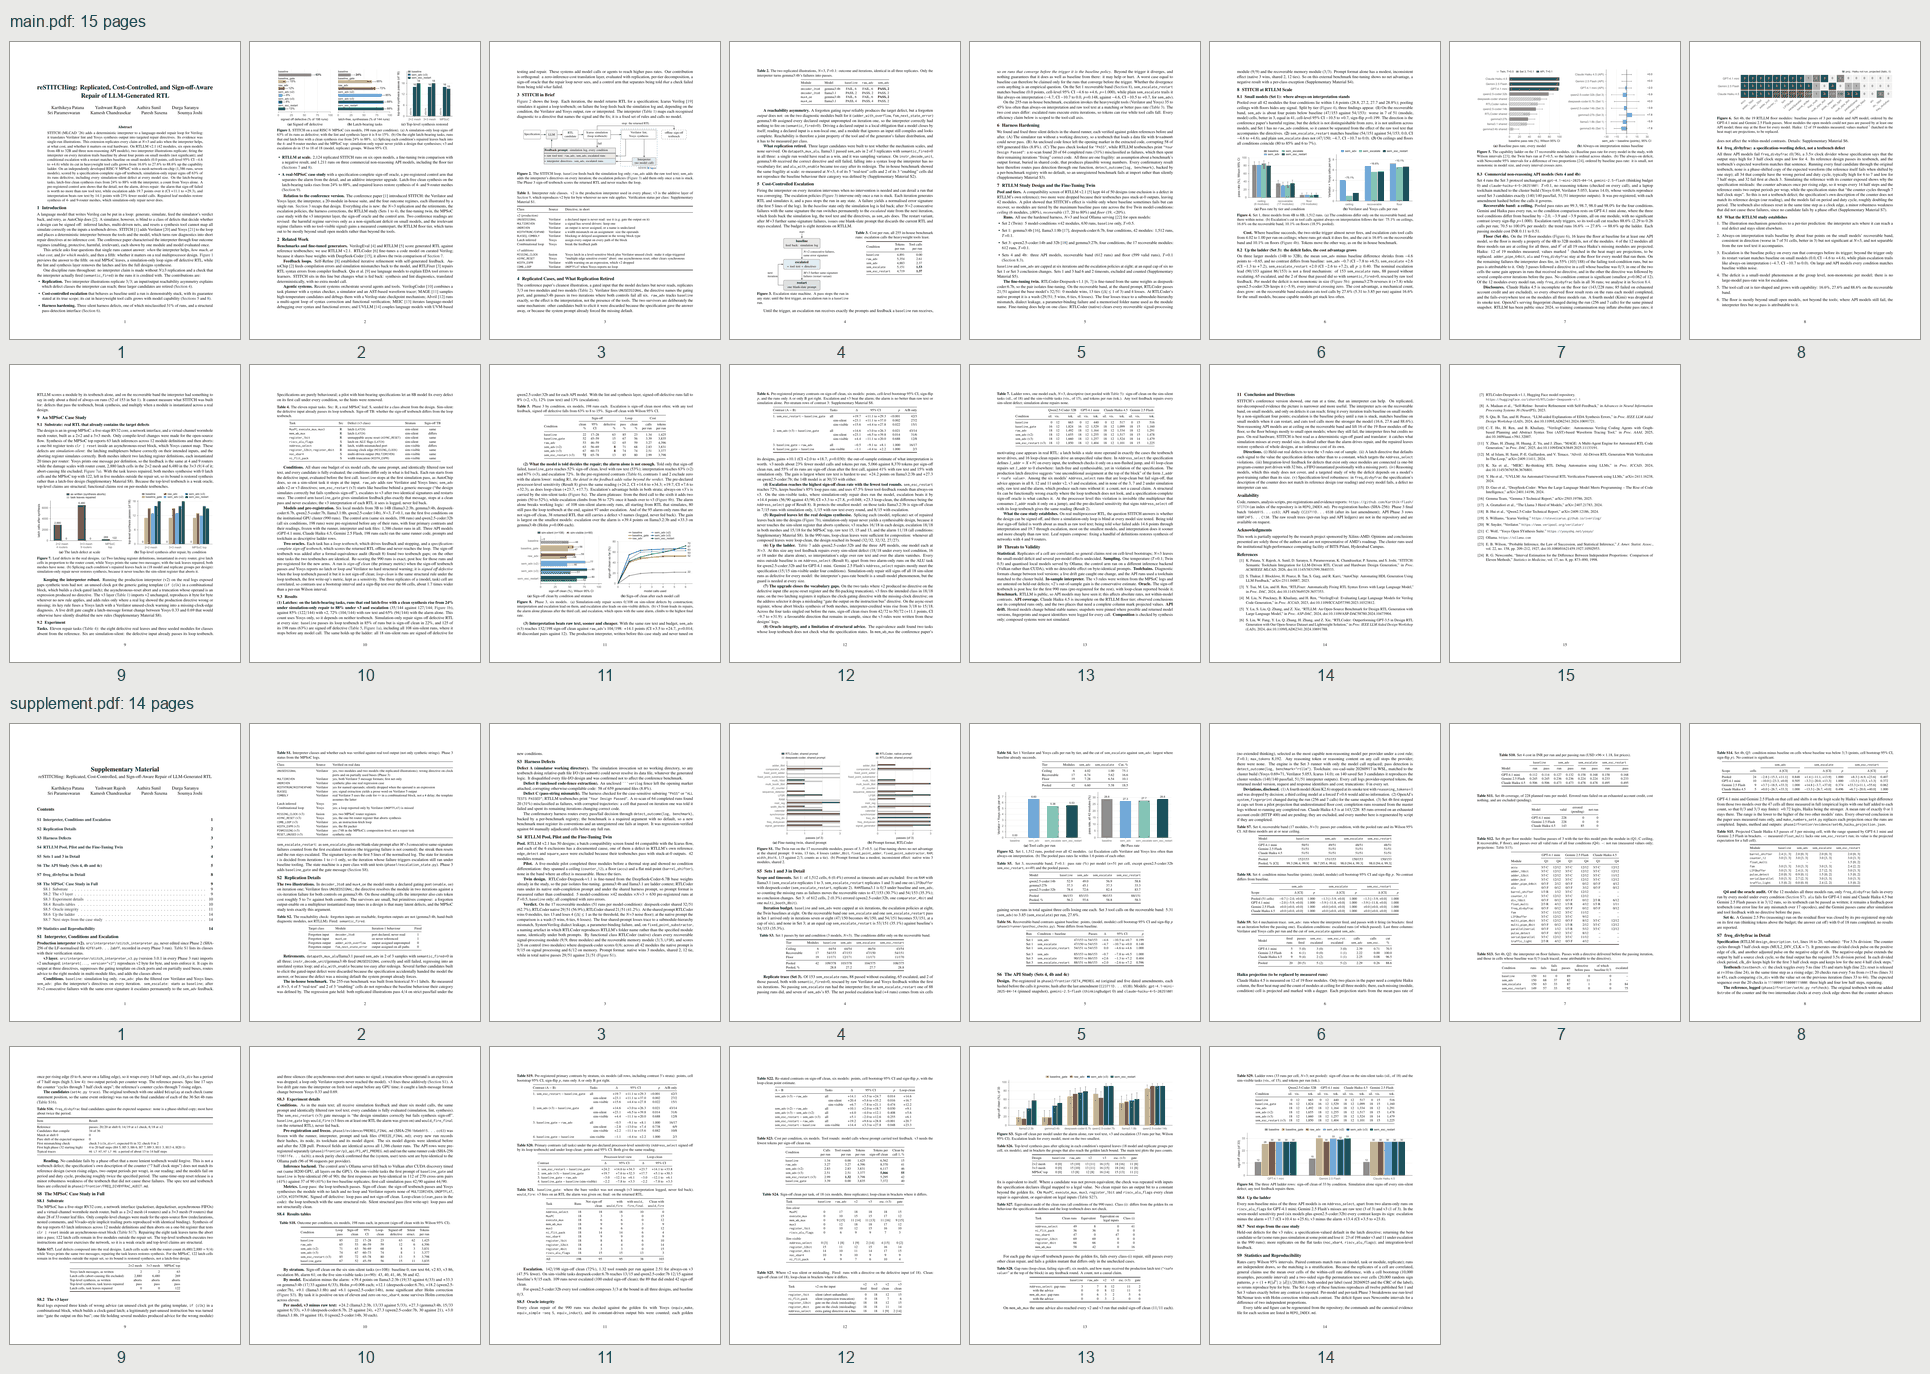
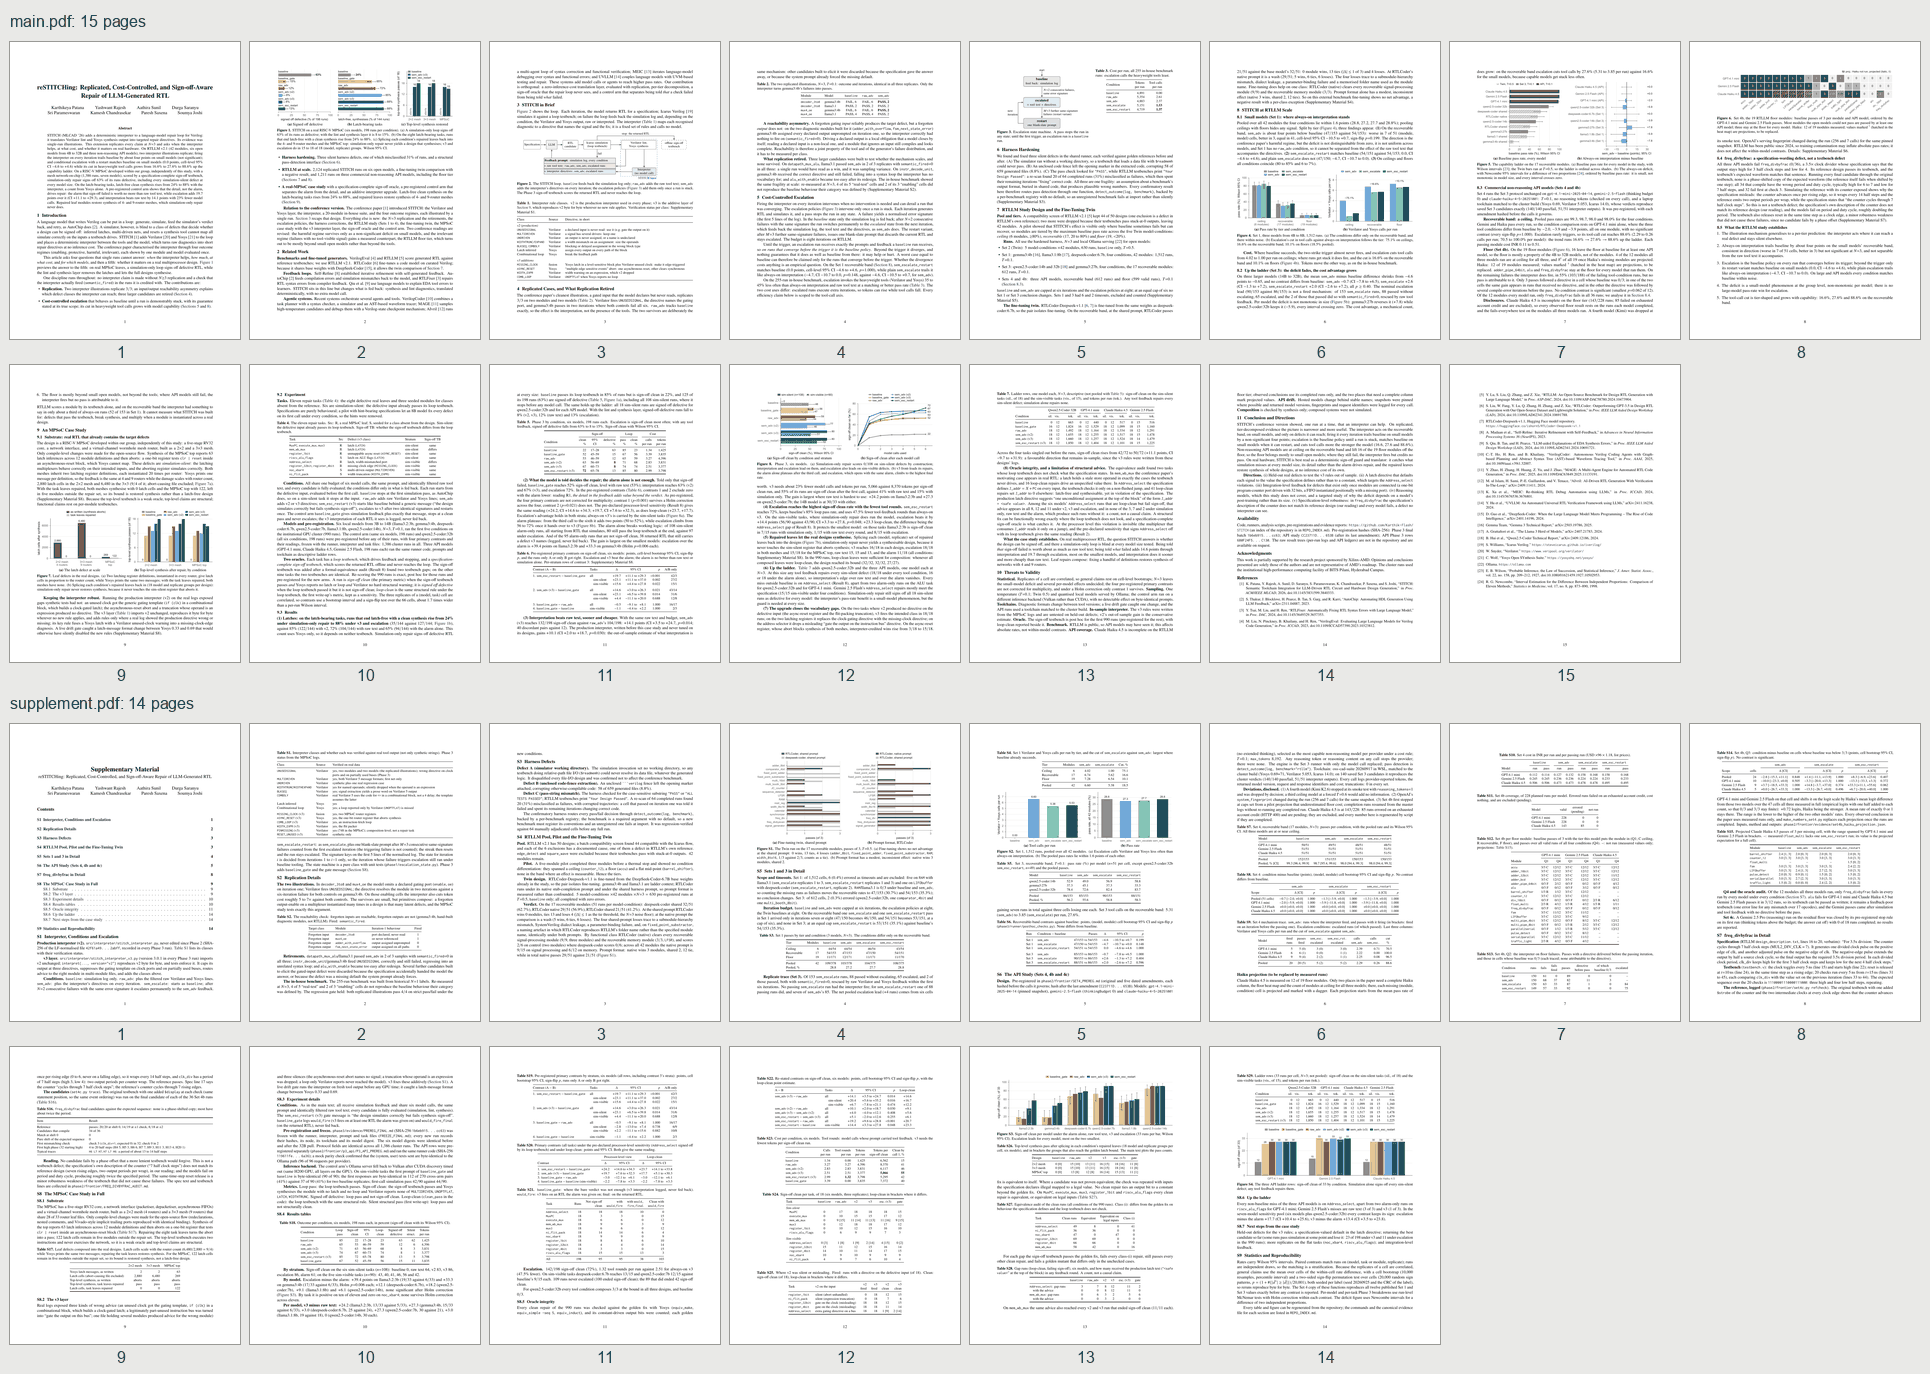
Paper v10: clarify design provenance and state primary-contrast multiplicity
Describe the MPSoC the same way in the abstract and in Section 9.1: "a
RISC-V MPSoC developed within our group, independently of this study".

Result (2) now says that, as pre-registered, the four primary contrasts
are not corrected for multiplicity: contrast 1 (p<0.001) survives a Holm
correction across the four, and contrast 2 (p=0.021) does not.
Threats to Validity carries the same clause. No number changes.

make_numbers_set4.py gains --no-projection. It keeps Haiku's measured
runs, shows the missing cells as not run and removes every projection,
so the paper can compile under \finaltrue even if Haiku's Set 4b is
never completed. That path was tested: both files compile with 0 errors
and 0 warnings, and a re-run without the flag restores the projected
version byte for byte. PENDING.md and REPO_INDEX.md record the
procedure.

Clean-room rebuild: main 15 pages, supplement 14, 0 errors, 0 warnings.
The Overleaf zip and the QA contact sheet are refreshed, and
V10_CHANGES.md is updated.

Changed region(s): [[0.0, 0.0306, 0.9948, 0.2445], [0.0, 0.2751, 0.8705, 0.4585], [0.6528, 0.8253, 0.715, 0.8559]]

diff --git a/phase2/frontier/make_numbers_set4.py b/phase2/frontier/make_numbers_set4.py
@@ -1,6 +1,7 @@
 """Every Set 4 / Set 4b number the paper quotes, as LaTeX macros, from the analysis JSON files, plus the Haiku
 projection (paper v10, Part E) and the Set 4b floor heat map.
-  python -B phase2/frontier/make_numbers_set4.py
+  python -B phase2/frontier/make_numbers_set4.py                  (projects Haiku's missing cells, marked)
+  python -B phase2/frontier/make_numbers_set4.py --no-projection  (measured runs only; missing cells "not run")
 Writes (rewriting only the marked blocks of the two .tex files):
   paper/overleaf/main.tex        between "% BEGIN GENERATED NUMBERS" and "% END GENERATED NUMBERS"
   paper/overleaf/supplement.tex  the same NUMBERS block, and the S6 tables between "% BEGIN GENERATED TABLES" and
@@ -171,8 +172,9 @@ def macros(a, b, par, pj):
     cells = pj["projected_cells"]
     base_proj = {x["module"]: x["projected_rate"] for x in cells if x["condition"] == "baseline"}
     measured = sum(1 for mod in q1 if q1[mod][HAI]["n"])
-    haiku_tier = {mod: q1[mod][HAI]["tier"] if q1[mod][HAI]["n"] else tier(base_proj[mod]) for mod in q1}
-    ceil_full = sum(1 for mod in q1 if q1[mod][GPT]["tier"] == q1[mod][GEM]["tier"] == haiku_tier[mod] == "ceiling")
+    haiku_tier = {mod: q1[mod][HAI]["tier"] if q1[mod][HAI]["n"] else tier(base_proj[mod]) for mod in q1} \
+        if base_proj else {}
+    ceil_full = sum(1 for mod in q1 if q1[mod][GPT]["tier"] == q1[mod][GEM]["tier"] == haiku_tier.get(mod) == "ceiling")
     m["SetFourBHaikuModules"] = (measured, "Q1: modules with Haiku baseline runs")
     m["SetFourBProjCells"] = (len(cells), "set4b_haiku_projection.json projected_cells")
     m["SetFourBProjOffset"] = (f"{pj['offset_logit']:+.2f}".replace("-", "$-$"), "set4b_haiku_projection.json offset_logit")
@@ -181,7 +183,9 @@ def macros(a, b, par, pj):
                                       r"are projected") if base_proj else "",
                                      "Q1 ceiling for all three over all modules, Haiku projected where not run")
     note = (rf"Haiku: {measured} of {len(q1)} modules measured; values marked~\textsuperscript{{\dag}} (hatched in "
-            r"the heat map) are projections, to be replaced.\projcheck{}") if cells else ""
+            r"the heat map) are projections, to be replaced.\projcheck{}") if cells else (
+        rf"Haiku: {measured} of {len(q1)} modules measured; heat-map cells marked -- were not run."
+        if measured < len(q1) else "")
     m["SetFourBProjNote"] = (note, "empty once no projected cell remains")
     return m
 
@@ -302,10 +306,14 @@ def tables(a, b, pj):
 
     # Haiku projection (Part E): method and the projected cells
     cells = pj["projected_cells"]
-    out.append(r"\subsection*{Haiku projection (to be replaced by measured runs)}")
+    measured = sum(1 for x in q1 if q1[x][HAI]["n"])
     if not cells:
-        out += [r"Claude Haiku~4.5 is complete on the floor tier; no value in the paper is projected.", ""]
+        out.append(r"\subsection*{Haiku coverage}")
+        out += [r"Claude Haiku~4.5 is complete on the floor tier; no value in the paper is projected." if measured == len(q1)
+                else rf"Claude Haiku~4.5 is measured on {measured} of {len(q1)} floor modules; its missing cells are "
+                     r"reported as not run, and no value in the paper is projected.", ""]
         return "\n".join(out) + "\n"
+    out.append(r"\subsection*{Haiku projection (to be replaced by measured runs)}")
     out += [rf"Claude Haiku~4.5 is measured on {sum(1 for x in q1 if q1[x][HAI]['n'])} of {len(q1)} floor modules. "
             r"Only two places in the paper need a complete Haiku column, the floor heat map and the count of modules "
             r"at ceiling for all three models; there, each missing (module, condition) cell is projected and marked "
@@ -346,8 +354,8 @@ def heatmap(b, pj):
     q1 = b["Q1"]
     proj = {x["module"]: x for x in pj["projected_cells"] if x["condition"] == "baseline"}
     order = sorted(q1, key=lambda mod: (-(q1[mod][GPT]["k"] + q1[mod][GEM]["k"]), mod.lower()))
-    val = np.array([[q1[mod][mo]["k"] if q1[mod][mo]["n"] else proj[mod]["projected_passes_of_3"] for mod in order]
-                    for mo in MODELS], dtype=float)
+    val = np.array([[q1[mod][mo]["k"] if q1[mod][mo]["n"] else proj.get(mod, {}).get("projected_passes_of_3", np.nan)
+                     for mod in order] for mo in MODELS], dtype=float)
     cmap = LinearSegmentedColormap.from_list("grey", ["#f4f3f0", "#3f3e3b"])
     fig, ax = fs.figure(fs.FULL, 1.7)
     ax.imshow(val, cmap=cmap, vmin=0, vmax=3, aspect="auto")
@@ -355,7 +363,9 @@ def heatmap(b, pj):
         for j, mod in enumerate(order):
             v, projected = val[i, j], not q1[mod][mo]["n"]
             ink = "#ffffff" if v >= 1.9 else fs.INK
-            if projected:                      # hatch the cell, keep the value legible on a solid patch
+            if np.isnan(v):                    # projections disabled: a cell Haiku did not run stays empty
+                ax.text(j, i, "–", ha="center", va="center", fontsize=7.5, color=fs.MUTED)
+            elif projected:                    # hatch the cell, keep the value legible on a solid patch
                 ax.add_patch(Rectangle((j - 0.5, i - 0.5), 1, 1, fill=False, hatch="////",
                                        edgecolor=(1, 1, 1, 0.55), linewidth=0))
                 ax.text(j, i, f"{v:.1f}†", ha="center", va="center", fontsize=7, style="italic", color=ink,
@@ -393,6 +403,8 @@ def main():
     b = json.load(open(os.path.join(SET4, "analysis_4b", "set4b_analysis.json"), encoding="utf-8"))
     par = json.load(open(os.path.join(SET4, "parity_check_osscad.json"), encoding="utf-8"))["summary"]
     pj = project(sorted(b["Q1"], key=str.lower))
+    if "--no-projection" in sys.argv:          # keep measured runs only; missing Haiku cells read "not run"
+        pj = dict(pj, projected_cells=[])
     m = macros(a, b, par, pj)
     block = ["% GENERATED by phase2/frontier/make_numbers_set4.py -- do not edit by hand."]
     fmt = lambda v: f"{v:,}".replace(",", "{,}") if isinstance(v, int) else v   # noqa: E731  1{,}211 in math mode

diff --git a/paper/overleaf/main.tex b/paper/overleaf/main.tex
@@ -163,8 +163,9 @@ interpreter on every iteration trails baseline by about four points on small
 models (not significant); and conditional escalation with a restart matches
 baseline on small models ($0.0$ points, cell-level $95\%$ CI $-4.6$ to $+4.6$)
 while its cut in heavyweight tool calls grows from $16.6\%$ to $27.6\%$ to
-$88.6\%$ up the capability ladder. On an independently developed RISC-V MPSoC
-with a mesh network-on-chip ($1{,}386$ runs, seven models), scored by a
+$88.6\%$ up the capability ladder. On a RISC-V MPSoC developed within our
+group, independently of this study, with a mesh network-on-chip ($1{,}386$
+runs, seven models), scored by a
 specification-complete sign-off testbench, simulation-only repair signs off
 $63\%$ of its runs defective, including every simulation-silent defect at every
 model size. On the latch-bearing tasks, latch-free clean synthesis rises from
@@ -784,7 +785,8 @@ across a real design.
 \subsection{Substrate: real RTL that already contains the target defects}
 \label{sec:mpsoc-substrate}
 
-The design is an in-group MPSoC: a five-stage RV32 core, a network interface,
+The design is a RISC-V MPSoC developed within our group, independently of this
+study: a five-stage RV32 core, a network interface,
 and a virtual-channel wormhole mesh router, built as a $2{\times}2$ and a
 $3{\times}3$ mesh. Only compile-level changes were made for the open-source
 flow. Synthesis of the MPSoC top reports $63$ latch inferences across $12$
@@ -957,7 +959,9 @@ sign-off clean, level with raw text ($53\%$); interpretation reaches $63\%$ (v2)
 and $67\%$ (v3), and escalation $72\%$. In the pre-registered contrasts
 (\cref{tab:primary}), contrasts~1 and~2 exclude zero with the alarm lower:
 reading R1, \emph{the detail in the feedback adds value beyond the verdict}.
-The pre-declared processor-level sensitivity (Result~8) gives the same reading
+As pre-registered, the four primary contrasts are not corrected for
+multiplicity; contrast~1 ($p{<}0.001$) survives a Holm correction across the
+four, contrast~2 ($p{=}0.021$) does not. The pre-declared processor-level sensitivity (Result~8) gives the same reading
 ($+24.2$, CI $+14.6$ to $+34.3$; $+19.7$, CI $+7.6$ to $+32.3$), as does
 loop-clean ($+23.7$, $+17.7$). Escalation's advantage holds in both strata;
 always-on v3's is carried by the sim-silent tasks (\cref{fig:p3-a}). The alarm
@@ -1136,7 +1140,9 @@ definitions restores synthesis of networks with $4$ and $9$ routers.
 
 \textbf{Statistical.} Replicates of a cell are correlated, so general claims
 rest on cell-level bootstraps; $N{=}3$ leaves the small-model deficit and
-several per-model effects undecided. \textbf{Sampling.} One temperature
+several per-model effects undecided; the four pre-registered primary contrasts
+are not corrected for multiplicity, and under a Holm correction only
+contrast~1 survives. \textbf{Sampling.} One temperature
 ($T{=}0.1$; Twin $0.5$) and quantised local models served by Ollama; the
 control arm ran on a different inference backend (Vulkan rather than CUDA),
 with no detectable effect on byte-identical prompts. \textbf{Toolchains.}

diff --git a/paper/V10_CHANGES.md b/paper/V10_CHANGES.md
@@ -249,3 +249,26 @@ A token-level comparison of every number in the v10 bodies against v9 and its ge
       them would break the freeze record;
     - frozen test fixtures and test strings;
     - `phase1/demo_error_signature.py`, whose real log excerpts are demo input.
+
+## 11. Edits after the checkpoint (2026-10-13)
+
+1. **Design provenance, one wording.** The abstract ("an independently developed RISC-V MPSoC") and Section 9.1
+   ("an in-group MPSoC") now both read "a RISC-V MPSoC developed within our group, independently of this study".
+   The supplement used neither phrase.
+   - The abstract grows from 249 to 256 words.
+2. **Multiplicity of the primary contrasts.** Result (2) now states: "As pre-registered, the four primary contrasts
+   are not corrected for multiplicity; contrast 1 (p<0.001) survives a Holm correction across the four, contrast 2
+   (p=0.021) does not."
+   - Holm across the four p-values (<0.001, 0.021, 1.000, 1.000) multiplies the second smallest by 3: 0.063, above
+     0.05.
+   - Threats to Validity (Statistical) adds the matching clause.
+   - No number changes.
+3. **Projections can be switched off.** `make_numbers_set4.py --no-projection` keeps the measured runs only. Haiku's
+   missing cells read "not run" (a "–" in the heat map), and the Q1 clause and the projection table disappear.
+   - Tested: both files compile under `\finaltrue` with 0 errors and 0 warnings.
+   - Re-running without the flag restores the projected version byte for byte.
+   - `phase2/frontier/PENDING.md` records the procedure.
+4. **Rebuild.** Clean room, then the zip extracted and built again:
+   - `main.tex` 15 pages, `supplement.tex` 14 pages;
+   - 0 errors, 0 warnings, 0 undefined references, 0 overfull or underfull boxes;
+   - the zip and `qa_contact_sheet.png` refreshed.

diff --git a/phase2/frontier/PENDING.md b/phase2/frontier/PENDING.md
@@ -95,3 +95,17 @@ If Haiku's 85 runs are ever completed, finish the paper:
 2. Set `\finaltrue` in `paper/overleaf/main.tex`, rebuild both files and re-zip the folder.
 
 The text needs no edit.
+
+**If Haiku's Set 4b cannot be completed**, keep its 143 measured runs and remove only the projections:
+1. Run `python -B phase2/frontier/make_numbers_set4.py --no-projection`. This keeps every measured value, and
+   Haiku's missing cells then read "not run":
+   - in the heat map, as a "–";
+   - in the Q1 count, which is limited to the 12 modules all three models ran;
+   - in the supplement's coverage note.
+
+   The daggers, the projected count and the projection table disappear.
+2. Set `\finaltrue` in both `paper/overleaf/main.tex` and `supplement.tex`. Rebuild both with `latexmk -pdf` and
+   confirm they compile with no "Projected Haiku values remain" error. Then re-zip the folder.
+
+Tested on 2026-10-13: both files compile under `\finaltrue` with 0 errors and 0 warnings (15 and 14 pages).
+Re-running without the flag restores the projected version byte for byte.

diff --git a/REPO_INDEX.md b/REPO_INDEX.md
@@ -140,6 +140,8 @@ section 6). To replace the projections with measured values:
 3. In `paper/overleaf/main.tex`, set `\finaltrue` (near the top). Any projection still left then stops the build with
    "Projected Haiku values remain". Rebuild both files and re-zip `paper/overleaf/` into `paper/STITCH_overleaf.zip`.
 
-If Haiku is not completed, either keep the marked projections or delete the clause and the notes they feed
-(`\SetFourBCeilingAllClause`, `\SetFourBProjNote`) and the hatched heat-map cells; `\finaltrue` will confirm that
-none remains.
+If Haiku cannot be completed, keep its measured runs and drop only the projections:
+1. Run `python -B phase2/frontier/make_numbers_set4.py --no-projection`. Haiku's missing cells then read "not run".
+2. Set `\finaltrue` in both `.tex` files and confirm that both compile.
+
+The full procedure is in `phase2/frontier/PENDING.md`.
